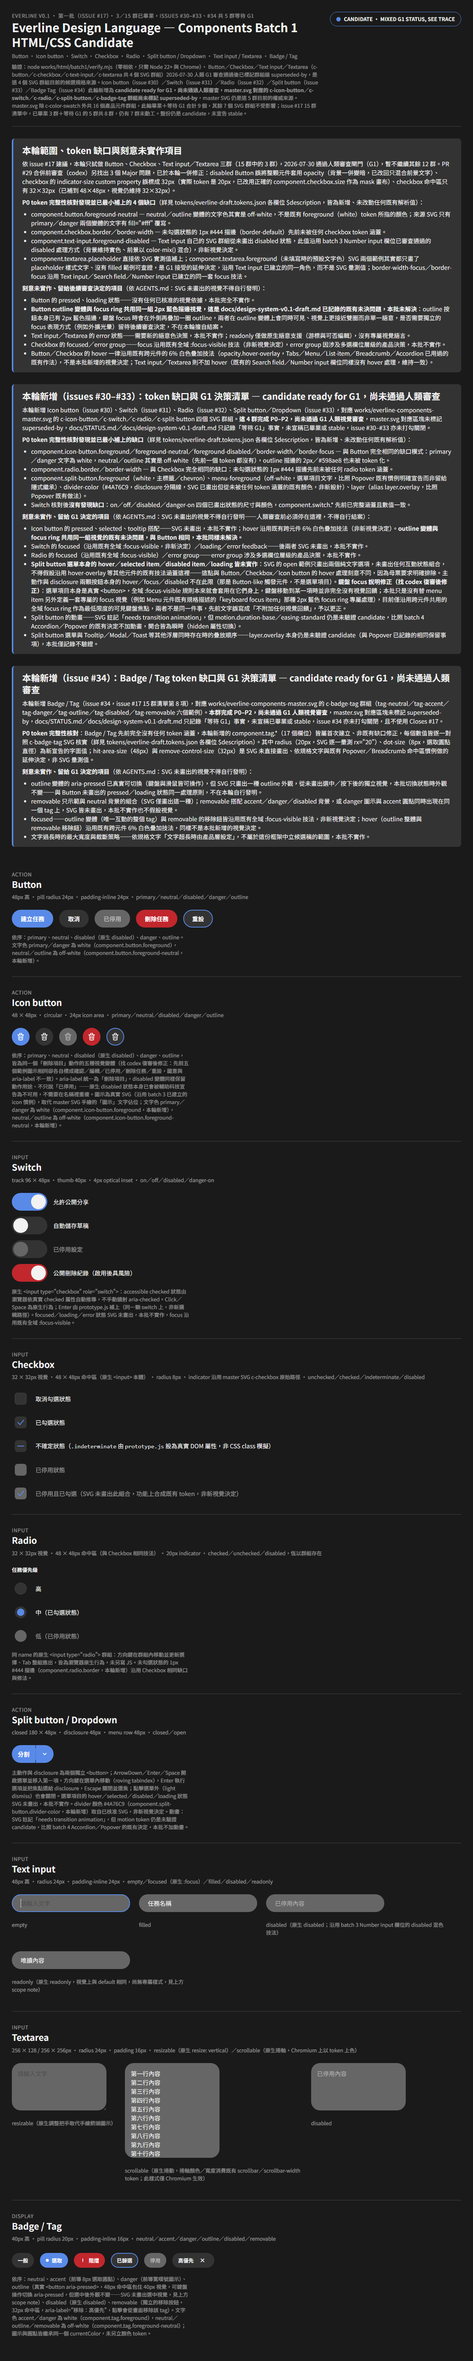
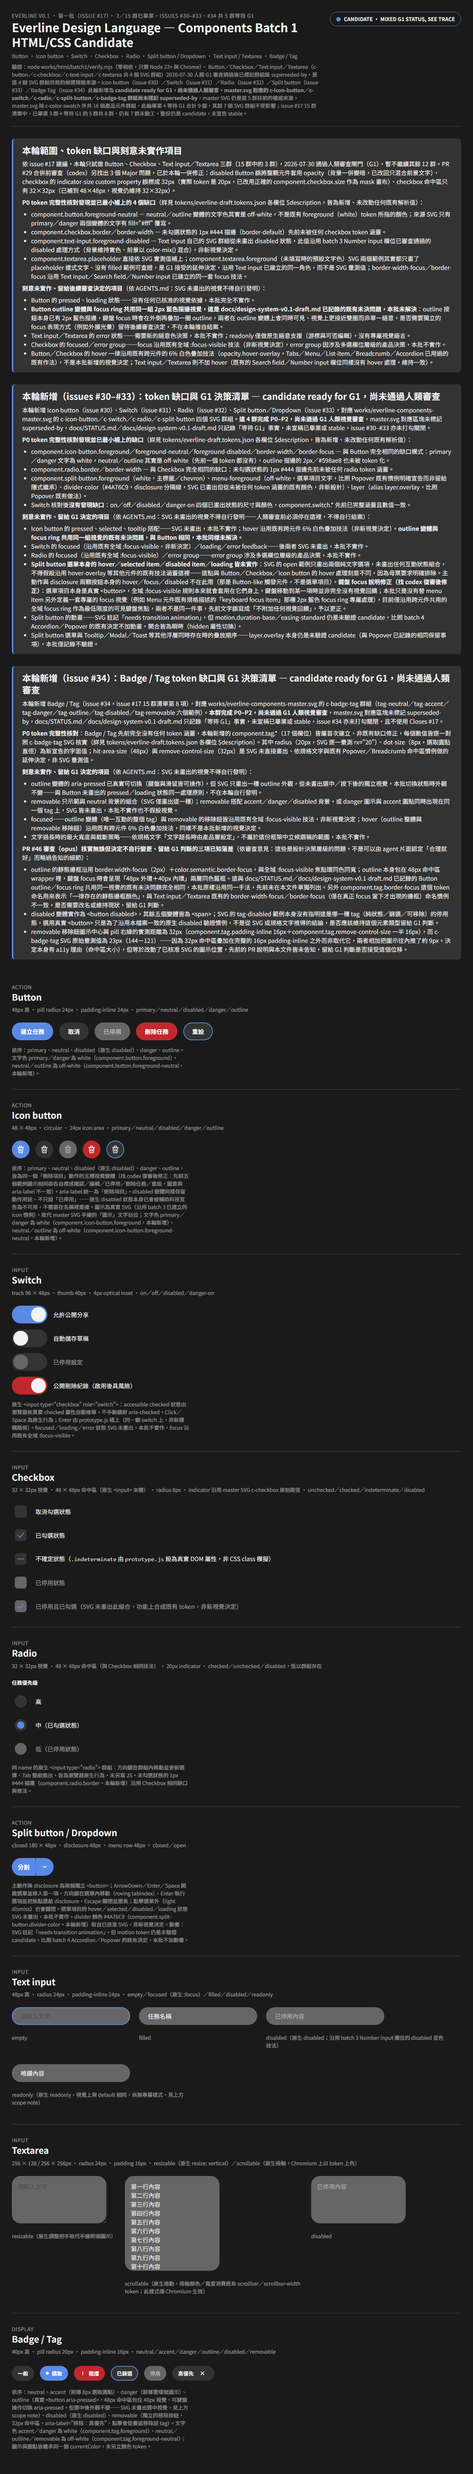
Address PR #46 review (opus): fix premature G1 wording, keyboard focus loss, missing RGB samples
- tokens/everline-draft.tokens.json + verify.mjs: component.tag.hit-area-size and
  remove-control-size described themselves as "G1-accepted" before G1 has happened,
  contradicting the rest of the PR. Reworded to "extension pending G1 review".
- prototype.js: removing a tag via its remove button dropped keyboard focus to <body>
  when Enter was used. Now moves focus to the next/previous remove control in the same
  group, falling back to the group container (tabindex="-1" on .tag-examples), mirroring
  batch 4 Popover's existing "focus must land somewhere deliberate" precedent. Added a
  document.activeElement assertion in verify.mjs.
- verify.mjs: added real screenshot RGB sampling for the four new solid Tag fills
  (neutral/accent/danger/disabled backgrounds), matching the existing convention used
  by Button/Icon button/Switch.
- index.html + STATUS.md: documented three reviewer-identified design-level caveats for
  G1 to decide (outline's static border sharing the focus-visible ring's exact visual,
  disabled-as-button vs span, the remove icon's ~9px position shift from the SVG) rather
  than silently changing them.

170/170 checks pass (up from 165, net +5 new checks).

diff --git a/works/html/batch1/index.html b/works/html/batch1/index.html
@@ -70,6 +70,12 @@
           <li><code>focused</code>——outline 變體（唯一互動的整個 tag）與 removable 的移除鈕皆沿用既有全域 <code>:focus-visible</code> 技法，非新視覺決定；<code>hover</code>（outline 整體與 removable 移除鈕）沿用既有跨元件 6% 白色疊加技法，同樣不是本批新增的視覺決定。</li>
           <li>文字過長時的最大寬度與截斷策略——依規格文字「文字超長時由產品層設定」，不屬於這份框架中立候選稿的範圍，本批不實作。</li>
         </ul>
+        <p><strong>PR #46 審查（opus）核實無誤但決定不自行變更、留給 G1 判斷的三項已知落差</strong>（依審查意見：這些是設計決策層級的問題，不是可以由 agent 片面認定「合理就好」而略過告知的細節）：</p>
+        <ul>
+          <li>outline 的靜態邊框沿用 <code>border.width-focus</code>（2px）＋<code>color.semantic.border-focus</code>，與全域 <code>:focus-visible</code> 焦點環同色同寬；outline 本身包在 48px 命中區 wrapper 裡，鍵盤 focus 時會呈現「48px 外環＋40px 內環」兩層同色藍框。這與 <code>docs/STATUS.md</code>／<code>docs/design-system-v0.1-draft.md</code> 已記錄的 Button outline／focus ring 共用同一視覺的既有未決問題完全相同，本批原樣沿用同一手法，先前未在本文件單獨列出。另外 <code>component.tag.border-focus</code> 這個 token 命名用來表示「一律存在的靜態邊框顏色」，與 Text input／Textarea 既有的 <code>border-width-focus</code>／<code>border-focus</code>（僅在真正 focus 當下才出現的邊框）命名慣例不一致，是否需要改名或維持現狀，留給 G1 判斷。</li>
+          <li>disabled 變體實作為 <code>&lt;button disabled&gt;</code>，其餘五個變體皆為 <code>&lt;span&gt;</code>；SVG 的 <code>tag-disabled</code> 範例本身沒有指明這是哪一種 tag（純狀態／篩選／可移除）的停用態，選用真實 <code>&lt;button&gt;</code> 只是為了沿用本檔案一致的原生 <code>disabled</code> 驗證慣例，不是從 SVG 或規格文字推得的結論，是否應該維持這個元素類型留給 G1 判斷。</li>
+          <li>removable 移除鈕圖示中心與 pill 右緣的實測距離為 32px（<code>component.tag.padding-inline</code> 16px＋<code>component.tag.remove-control-size</code> 一半 16px），而 <code>c-badge-tag</code> SVG 原始量測值為 23px（144－121）——因為 32px 命中區疊加在完整的 16px <code>padding-inline</code> 之外而非取代它，兩者相加把圖示往內推了約 9px。決定本身有 a11y 理由（命中區大小），但等於改動了已核准 SVG 的圖示位置，先前的 PR 說明與本文件皆未告知，留給 G1 判斷是否接受這個位移。</li>
+        </ul>
       </aside>
 
       <!-- ===================== Button ===================== -->
@@ -297,7 +303,7 @@
           <h2 id="tag-title">Badge / Tag</h2>
           <p>40px 高 · pill radius 20px · padding-inline 16px · neutral／accent／danger／outline／disabled／removable</p>
         </div>
-        <div class="tag-examples">
+        <div class="tag-examples" tabindex="-1">
           <span class="tag">一般</span>
           <span class="tag tag--accent"><span class="tag__dot" aria-hidden="true"></span>選取</span>
           <span class="tag tag--danger">

diff --git a/works/html/batch1/prototype.js b/works/html/batch1/prototype.js
@@ -92,8 +92,24 @@ document.querySelectorAll('[data-tag-toggle]').forEach((btn) => {
     btn.setAttribute('aria-pressed', btn.getAttribute('aria-pressed') === 'true' ? 'false' : 'true');
   });
 });
+// PR #46 review (opus): removing a tag while its own remove button has keyboard focus must not
+// let focus fall back to <body> — the same "focus must land somewhere deliberate, not wherever
+// the browser defaults to" requirement batch 4's Popover already established for its own
+// close/light-dismiss paths (works/html/batch4/prototype.js: "focus always returns to whichever
+// control opened it"). There is no single invoker to return to here (the control that had focus
+// is the one being removed), so focus instead moves to the next remaining remove control in the
+// same group, then the previous one, then the group container itself as a last resort — the
+// group container carries tabindex="-1" in index.html precisely so it can receive focus
+// programmatically without ever entering the Tab order on its own.
 document.querySelectorAll('[data-tag-remove]').forEach((btn) => {
   btn.addEventListener('click', () => {
-    btn.closest('.tag')?.remove();
+    const tag = btn.closest('.tag');
+    const group = tag?.parentElement;
+    const removesInGroup = group ? [...group.querySelectorAll('[data-tag-remove]')] : [];
+    const myIndex = removesInGroup.indexOf(btn);
+    tag?.remove();
+    const next = removesInGroup[myIndex + 1] || removesInGroup[myIndex - 1];
+    if (next && next.isConnected) next.focus();
+    else group?.focus();
   });
 });

diff --git a/docs/STATUS.md b/docs/STATUS.md
@@ -11,7 +11,7 @@
 - 累計進度：第一批 17 類（`works/everline-components-master.svg`）、第二批 7 類、第三批 4 類（issue #5-#8，已畢業為 `works/html/batch3/`）、第四批 4 類（issue #9 Slider、#10 Accordion、#11 Popover、#12 Date / Time picker，已畢業為 `works/html/batch4/`）皆已有 candidate；四批合計 32 類皆仍是 candidate／草稿狀態，尚未逐項確認用途、狀態、無障礙、來源追溯等完整規格條件（見 `AGENTS.md` 元件規格的 12 項完成檢查），非正式定稿。第二階段候選（19 類，非必做）尚未開始。
 - 2026-07-30：issue #17（第一批 15 群畢業為 HTML/CSS）依 issue 建議先試辦 Button、Checkbox、Text input／Textarea 三群（1/4），**2026-07-30 通過人類審查閘門（G1），已畢業，仍是 candidate，未宣告 stable**。P0 token 完整性核對對照 `works/everline-components-master.svg` 逐項數值後，補上 4 個先前未涵蓋的缺口（純新增，未改動任何既有解析值，見 `tokens/everline-draft.tokens.json` 對應 `$description`）：Button 的 neutral／outline 變體文字色其實是 off-white 而非既有 `foreground` token 所指的 white；Checkbox 未勾選狀態的 1px 邊框先前未被任何 token 涵蓋；Text input／Textarea 的 disabled 前景色與 Textarea 的 foreground／placeholder／focus 邊框先前完全沒有對應 token。候選規格位於 `works/html/batch1/`，以 `node works/html/batch1/verify.mjs`（CDP 驅動真實 headless Chrome）驗證。PR #29 提出後，codex 合併前審查發現 3 個 Major、1 個 Minor，已於 PR head 之後一輪修正：(1) disabled Button 誤對整顆元件套 `opacity`，把核准 SVG 的實色 `#666666` 背景一起壓暗，已改為只對前景文字用既有 `color-mix()` 技法混色，背景維持實色；(2) `component.checkbox.indicator-size`（20px）與 CSS 同名 custom property 被誤標成 32px，驗證腳本先前只比對「custom property 有無對應到某個 token 路徑」、未比對解析值，已改用正確的 `component.checkbox.size` 作為 mask 畫布，並把 CSS 契約驗證升級為同時比對解析值；(3) checkbox 命中區只有 32×32px，未達規格「32px 視覺置於至少 48×48px 命中區」的要求，已將原生 `<input>` 本體擴到 48×48px、透過 `::before`／`::after` 偽元素在其中置中繪出 32×32px 視覺，label 關聯與 indeterminate 真實 DOM 狀態不受影響；(4/Minor) `component.textarea.foreground` 的 token 描述先前誤寫成「依 SVG 量測」，實際上 SVG 只畫了 placeholder 樣式文字、沒有可查證的 filled 範例，已改記為 G1 接受的延伸決定。`works/everline-components-master.svg` 的 c-button／c-checkbox／c-text-input／c-textarea 四個 SVG 群組已標記群組級 `superseded-by: works/html/batch1/index.html`（master.svg 檔案層級狀態不變，仍是 candidate；除 c-color-swatch 外共 16 個產品元件群組，扣除這 4 個，其餘 12 個 SVG 群組不受影響）。Button 的 `pressed`／`loading`、欄位的 `error` 狀態，以及既有的 outline 變體與 focus ring 共用同一視覺的未決問題，仍未實作／未解決，留待後續審查決定。issue #17 其餘 12 群（15 群中未畢業的部分）不受影響，仍以 master SVG 為權威來源。修正後的 `verify.mjs` 新增了 custom property 解析值與 token 逐一比對（而不只是名稱比對）、disabled Button 的真實截圖 RGB 驗證，以及 checkbox 48×48 命中區的真實點擊測試，重新執行後 62/62 通過。
 - 2026-07-31：issue #17 新增 Icon button（issue #30）、Switch（issue #31）、Radio（issue #32）、Split button／Dropdown（issue #33）四群候選規格，**candidate ready for G1，尚未通過人類視覺審查**；`works/everline-components-master.svg` 對應的 `c-icon-button`／`c-switch`／`c-radio`／`c-split-button` 群組尚未標記 `superseded-by`，master SVG 仍是這 4 群目前的權威來源，issue #30–#33 亦未打勾關閉。P0 token 完整性核對對照 SVG 逐項數值後：Icon button 補上 `foreground`／`foreground-neutral`／`foreground-disabled`／`border-width`／`border-focus`（與 Button 相同的既有缺口模式，純新增）；Radio 補上 `border`／`border-width`（與 Checkbox 相同的既有缺口模式）；Split button 補上 `foreground`（white）、`menu-foreground`（off-white，比照 Popover 既有慣例明確宣告）、`divider-color`（`#4A76C9`，SVG 已畫出但從未 token 化的既有分隔線顏色，非新設計）、`layer`（alias `layer.overlay`）；Switch 核對後沒有發現任何缺口，既有 token 已完整涵蓋 on／off／disabled／danger-on 四個已畫出狀態。候選規格擴充至 `works/html/batch1/`：Icon button 用真實 SVG 圖示（沿用 batch 3 已建立的 icon 慣例）取代 master SVG 的「圖示」文字佔位；Switch 用原生 `<input type="checkbox" role="switch">`，accessible checked 狀態由瀏覽器依真實 `checked` 屬性自動推導，另補 Enter 鍵切換（native checkbox 原生不支援，click／Space 為原生行為）；Radio 用同 `name` 的原生 radio 群組包在 `<fieldset>`／`<legend>` 內，方向鍵選擇與 Tab 整組進出皆為瀏覽器原生行為，未寫額外 JS；Split button 的主動作與 disclosure 為兩個獨立 `<button>`，選單是真實 `role="menu"`／`role="menuitem"` 搭配 roving `tabindex`，`ArrowDown`／`Enter`／`Space` 開啟、方向鍵在選單內移動、`Enter` 執行並將焦點還給 disclosure、`Escape` 與點擊選單外皆可關閉；選單項目本身的 `hover`／`selected`／`disabled`／`loading` 狀態，以及 Switch 的 `focused`／`loading`／`error`、Radio 的 `error group`、Icon button 的 `pressed`／`selected`／`tooltip`（及與 Button 相同的 outline／focus-ring 共用同一視覺的既有未決問題）SVG 皆未畫出，本輪不實作，列為 G1 決策清單；選單項目的鍵盤 focus 例外——它們是真實 `<button>`，全域 `:focus-visible` 本來就會套用，只是沒有另外定義 menu item 專屬的 focus 視覺，並非完全沒有回饋。動畫：Split button 的 SVG 註記「needs transition animation」，因 motion token 仍是未驗證 candidate，比照 batch 4 Accordion／Popover 的既有決定不加動畫。以 `node works/html/batch1/verify.mjs`（CDP 驅動真實輸入事件，涵蓋 token 完整性、CSS 解析值契約、computed dimensions、真實點擊與鍵盤操作、RGB 截圖採樣、響應式無溢出、無動效掃描）驗證，125/125 通過。
-- 2026-08-03：issue #17 新增 Badge / Tag（issue #34，15 群清單第 8 項）候選規格，**candidate ready for G1，尚未通過人類視覺審查**；`works/everline-components-master.svg` 對應的 `c-badge-tag` 群組尚未標記 `superseded-by`，master SVG 仍是這一群目前的權威來源，issue #34 亦未打勾關閉，不使用 `Closes #17`。此元件先前完全沒有 token 涵蓋，P0 核對後新增 17 個 `component.tag.*` 欄位（純新增，非缺口修正，見 `tokens/everline-draft.tokens.json` 對應 `$description`），皆逐一對照 `c-badge-tag` SVG 核實：neutral／accent／danger／disabled 四色沿用既有語意 token（`background-surface`／`action-primary`／`action-danger`／`background-subdued`），文字與圖示前景延續 Button／Icon button 已確立的「primary／danger 變體用 white，neutral／outline 變體用 off-white」規則；圓角（20px，40px 高度之半）、選取圓點（8px 直徑）為新宣告字面值；命中區相關的 `hit-area-size`（48px，outline 整體可互動篩選標籤的命中區）與 `remove-control-size`（32px，removable 移除鈕）皆非 SVG 直接畫出，是依規格文字與既有 Popover／Breadcrumb 命中區慣例做的延伸決定。候選規格擴充至 `works/html/batch1/`：outline 變體實作為真實 `<button aria-pressed>`，滿足規格「可點擊篩選器需明確游標、鍵盤操作及選取狀態」的互動要求，但 SVG 只畫出一種 outline 外觀、從未畫出選中／按下的獨立視覺，故切換 `aria-pressed` 時外觀不變（與 Button 未畫出的 `pressed`／`loading` 同一處理原則，不自行發明視覺）；removable 變體的移除鈕是獨立的真實 `<button>`，有專屬 `aria-label="移除：<標籤文字>"`，點擊會將該 tag 從畫面移除（真實 DOM 異動，非只是淡出，因 SVG 未畫出移除動畫）；leading 圓點與兩個圖示皆使用 `currentColor`，未另立顏色 token，因為 SVG 本身的圓點／圖示填色與同一個 tag 的文字填色一律相同。以 `node works/html/batch1/verify.mjs` 驗證，涵蓋 token 完整性、CSS 解析值契約、computed dimensions、outline 的真實點擊與鍵盤（Enter／Space）切換測試、removable 移除鈕的真實點擊測試（測試後於同一頁面重新插入並重新綁定監聽器，恢復頁面狀態供 G1 審查截圖使用）、RGB 截圖採樣，165/165 通過（含既有 7 群的既有檢查，全部重新執行仍通過）。
+- 2026-08-03：issue #17 新增 Badge / Tag（issue #34，15 群清單第 8 項）候選規格，**candidate ready for G1，尚未通過人類視覺審查**；`works/everline-components-master.svg` 對應的 `c-badge-tag` 群組尚未標記 `superseded-by`，master SVG 仍是這一群目前的權威來源，issue #34 亦未打勾關閉，不使用 `Closes #17`。此元件先前完全沒有 token 涵蓋，P0 核對後新增 17 個 `component.tag.*` 欄位（純新增，非缺口修正，見 `tokens/everline-draft.tokens.json` 對應 `$description`），皆逐一對照 `c-badge-tag` SVG 核實：neutral／accent／danger／disabled 四色沿用既有語意 token（`background-surface`／`action-primary`／`action-danger`／`background-subdued`），文字與圖示前景延續 Button／Icon button 已確立的「primary／danger 變體用 white，neutral／outline 變體用 off-white」規則；圓角（20px，40px 高度之半）、選取圓點（8px 直徑）為新宣告字面值；命中區相關的 `hit-area-size`（48px，outline 整體可互動篩選標籤的命中區）與 `remove-control-size`（32px，removable 移除鈕）皆非 SVG 直接畫出，是依規格文字與既有 Popover／Breadcrumb 命中區慣例做的延伸決定。候選規格擴充至 `works/html/batch1/`：outline 變體實作為真實 `<button aria-pressed>`，滿足規格「可點擊篩選器需明確游標、鍵盤操作及選取狀態」的互動要求，但 SVG 只畫出一種 outline 外觀、從未畫出選中／按下的獨立視覺，故切換 `aria-pressed` 時外觀不變（與 Button 未畫出的 `pressed`／`loading` 同一處理原則，不自行發明視覺）；removable 變體的移除鈕是獨立的真實 `<button>`，有專屬 `aria-label="移除：<標籤文字>"`，點擊會將該 tag 從畫面移除（真實 DOM 異動，非只是淡出，因 SVG 未畫出移除動畫）；leading 圓點與兩個圖示皆使用 `currentColor`，未另立顏色 token，因為 SVG 本身的圓點／圖示填色與同一個 tag 的文字填色一律相同。以 `node works/html/batch1/verify.mjs` 驗證，涵蓋 token 完整性、CSS 解析值契約、computed dimensions、outline 的真實點擊與鍵盤（Enter／Space）切換測試、removable 移除鈕的真實點擊測試（測試後於同一頁面重新插入並重新綁定監聽器，恢復頁面狀態供 G1 審查截圖使用）、RGB 截圖採樣，165/165 通過（含既有 7 群的既有檢查，全部重新執行仍通過）。PR #46 提出後，opus 審查發現並已修正：(1) `component.tag.hit-area-size`／`remove-control-size` 的 token `$description` 與 `verify.mjs` check 標籤誤寫成「G1-accepted extension decision」，但 Badge/Tag 尚未通過 G1，與同一份 PR 的其餘文件自相矛盾，已改為「extension pending G1 review」一類措辭；(2) removable 移除鈕的鍵盤 Enter 觸發移除後，被刪元素連同鍵盤焦點一起消失、掉回 `<body>`，屬真實鍵盤導覽缺陷（不受「SVG 未畫出視覺不得發明」保護），已比照 batch 4 Popover「focus 一律要回到明確位置」的既有先例修正：改為移到同群組下一個／上一個移除鈕，皆不存在時退回群組容器本身（`.tag-examples` 補上 `tabindex="-1"` 作為此退回目標），並在 `verify.mjs` 新增 `document.activeElement` 斷言；(3) `verify.mjs` 的「Rendered colour」區塊先前沒有任何 Badge/Tag 條目，本輪四個新實色（neutral／accent／danger／disabled 背景）只做了 `getComputedStyle` 沒有真實截圖 RGB 採樣，不符本檔案既有慣例（Button／Icon button／Switch 新增實色時皆有採樣，disabled Button 當初就是靠這個方法抓出 PR #29 的背景誤變暗問題），已比照既有手法補上。以下 3 點審查核實無誤但屬設計決策層級問題，本輪不自行變更，已寫入 `works/html/batch1/index.html` scope note 留給 G1 判斷：outline 靜態邊框與全域 `:focus-visible` 焦點環同色同寬（48px 外環＋40px 內環雙層同色），與既有記錄的 Button outline／focus-ring 共用視覺問題相同、本批原樣沿用卻先前未單獨列出，且 `component.tag.border-focus` 這個命名用於恆常存在的靜態邊框，與 Text input／Textarea 既有「僅 focus 時出現」的 `border-width-focus`／`border-focus` 命名慣例衝突；disabled 變體用 `<button disabled>`、其餘變體用 `<span>`，SVG 未指明停用態對應哪一種語意的 tag；removable 移除鈕圖示中心與 pill 右緣的實測距離為 32px（16px `padding-inline` ＋ 16px 命中區半徑），SVG 原始量測值為 23px，因兩個尺寸相加而非取代造成約 9px 位移，改動了已核准圖示位置卻未先前告知。修正後重新執行 `node works/html/batch1/verify.mjs`，170/170 通過（新增的鍵盤焦點回復斷言與 4 項 RGB 截圖採樣皆通過）。
 - 2026-07-30：第四批（issue #9 Slider、#10 Accordion、#11 Popover、#12 Date / Time picker）依 `batch4-plan.tmp.md` 決策獨立成批。SVG 候選稿當日經人工審查通過（審查中決定兩項視覺修正：Slider 焦點環改為 4px 實心無間隙、日期範圍中段改為每日獨立淡色圓而非連續色帶），隨後完成 token 核對與 HTML/CSS 畢業。`works/everline-components-batch4.svg` 已標記為歷史快照，候選規格權威來源為 `works/html/batch4/index.html`，規格與驗證紀錄見 `docs/design-system-v0.1-batch4-draft.md`。四類皆為 candidate，G1–G6 已通過人類驗收，仍非 stable。驗證以 CDP 送真實輸入事件執行（合成事件無法觸發原生 popover 的 Esc／light-dismiss）並含 RGB 採樣與全頁無動效掃描。過程中修正的真實缺陷：值標籤間距公式、時間欄位被 flex 壓縮導致原生地區化時間值裁切（token 128px 不足，改 160px）、矮視窗下 Popover 溢出畫面，以及 PR 審查後修正的月底 PageUp／PageDown 溢位與焦點回復對象錯誤。
 - 2026-07-28：Breadcrumb（issue #7）SVG 候選稿經一輪人工審查修正——原始靠左排列改為每項文字置中於自己的命中區（以 Chrome `getBBox()` 實測文字寬度，非目測），並修正 Loading／Search field 兩區塊間距過窄（原僅 18px，覆蓋到下一區塊標題）的既有排版問題。畢業到 HTML/CSS 時，`<li>` 使用 `display: contents` 讓子元素直接參與 flex 版面，命中區置中改由原生 padding 自然達成，不需複製 SVG 手算的 slot 座標；過程中發現並修正一個真實 bug：`display: contents` 在同優先權下會蓋掉瀏覽器預設的 `[hidden]{display:none}`，導致 collapsed 範例的摺疊項目一開始就沒被正確隱藏（與本檔案既有 `.loading-overlay[hidden]` 註解記載的同一類陷阱）。Number input（issue #8）延伸 Text input／Icon button 既有 token，畢業時改用原生 `<input type="number">` 搭配 `stepUp()`/`stepDown()`，min/max 到界時對應按鈕即時原生 `disabled`（點擊或直接輸入到界皆會觸發）。兩者的像素級驗證（computed style 讀值＋螢幕截圖 RGB 採樣＋DOM 尺寸量測，2026-07-29 PR #26 審查修正後於 PR head 重新完整量測）：Breadcrumb——item 間 32px slot（8px+16px chevron+8px，皆由 `component.breadcrumb.item-gap` 推導，不再借用 `item-padding-inline`）、命中區高 32px、chevron 16px、collapsed 省略號 3 個 4px 圓點、中心距 10px（原 CSS 誤用 3px flex-gap 只達 7px 中心距，已修正為 `calc(ellipsis-dot-gap - ellipsis-dot-size)`）、預設文字色 `rgb(77,77,77)`＝`#4d4d4d`、目前頁／hover 文字色 `rgb(242,242,242)`＝`#f2f2f2`、hover 底色 `rgba(255,255,255,0.06)`。Number input——按鈕 48×48px、欄位 80×48px、按鈕與欄位間 8px、按鈕圖示 24px（原 HTML 圖示 `width/height` 寫死 24，未消費 `button-icon-size` token，已改由 CSS 控制、SVG 移除硬編碼尺寸）；focus 邊框 token 解析為 2px／`#598AE8`，因本輪瀏覽器自動化工具的 `element.focus()` 未取得真正的視窗層級 focus（`document.activeElement` 為欄位本身，但 `:focus` 選擇器不匹配），改以手動套用相同 `box-shadow` 值截圖核對渲染結果，未能直接觸發 `:focus` 偽類驗證，屬已知剩餘風險（此為既有 Text input／Search field 已審查通過的相同技法，非本輪新增邏輯）；default 欄位背景 `rgb(102,102,102)`＝`#666666`、focus 邊框 `rgb(89,138,232)`＝`#598AE8`；min／max reached 以點擊、直接輸入（原生 `input` 事件模擬）分別測試邊界，對應按鈕即時 `disabled`、另一按鈕維持可互動；disabled 狀態背景實測仍為 `rgb(102,102,102)`＝`#666666`（維持實色，未變暗）、內容色實測 `color(srgb .702 .702 .702)`≈`rgb(179,179,179)`＝`#b3b3b3`，與「off-white + opacity.disabled 0.55」的理論混色值一致（原 CSS 對整個 button/input 套用 `opacity: .55`，導致背景也被錯誤帶淡至約 `#444`、內容約 `#919`，已改為背景維持 token 實色、只用 `color-mix()` 對前景色套用 disabled 混色，不再影響背景）。方向鍵（↑/↓）路徑因瀏覽器自動化工具本輪不支援真實鍵盤事件模擬，改以程式碼路徑等價性驗證：鍵盤與點擊、輸入共用同一個原生 `input` 事件觸發的 `sync()`，點擊與直接輸入兩條路徑皆已實測通過，鍵盤觸發的瀏覽器原生 step 行為本身不受本次改動影響，未逐一以真實鍵盤事件覆蓋，屬已知剩餘風險。
 - 2026-07-27：Progress/Loading 元件同時回填了第二批 List／Data table／Kanban column 先前擱置的 `loading` 狀態（`works/html/batch2/`），沿用同一 spinner 視覺套進既有 `empty-state` 容器，未另立新視覺語言；過程中順手修正了 batch2 既有的全域 `prefers-reduced-motion` 規則對「持續循環動畫」（spinner 旋轉）不適用的問題（原規則會讓動畫變成極速閃爍，而不是正確地停在靜態畫面）。
